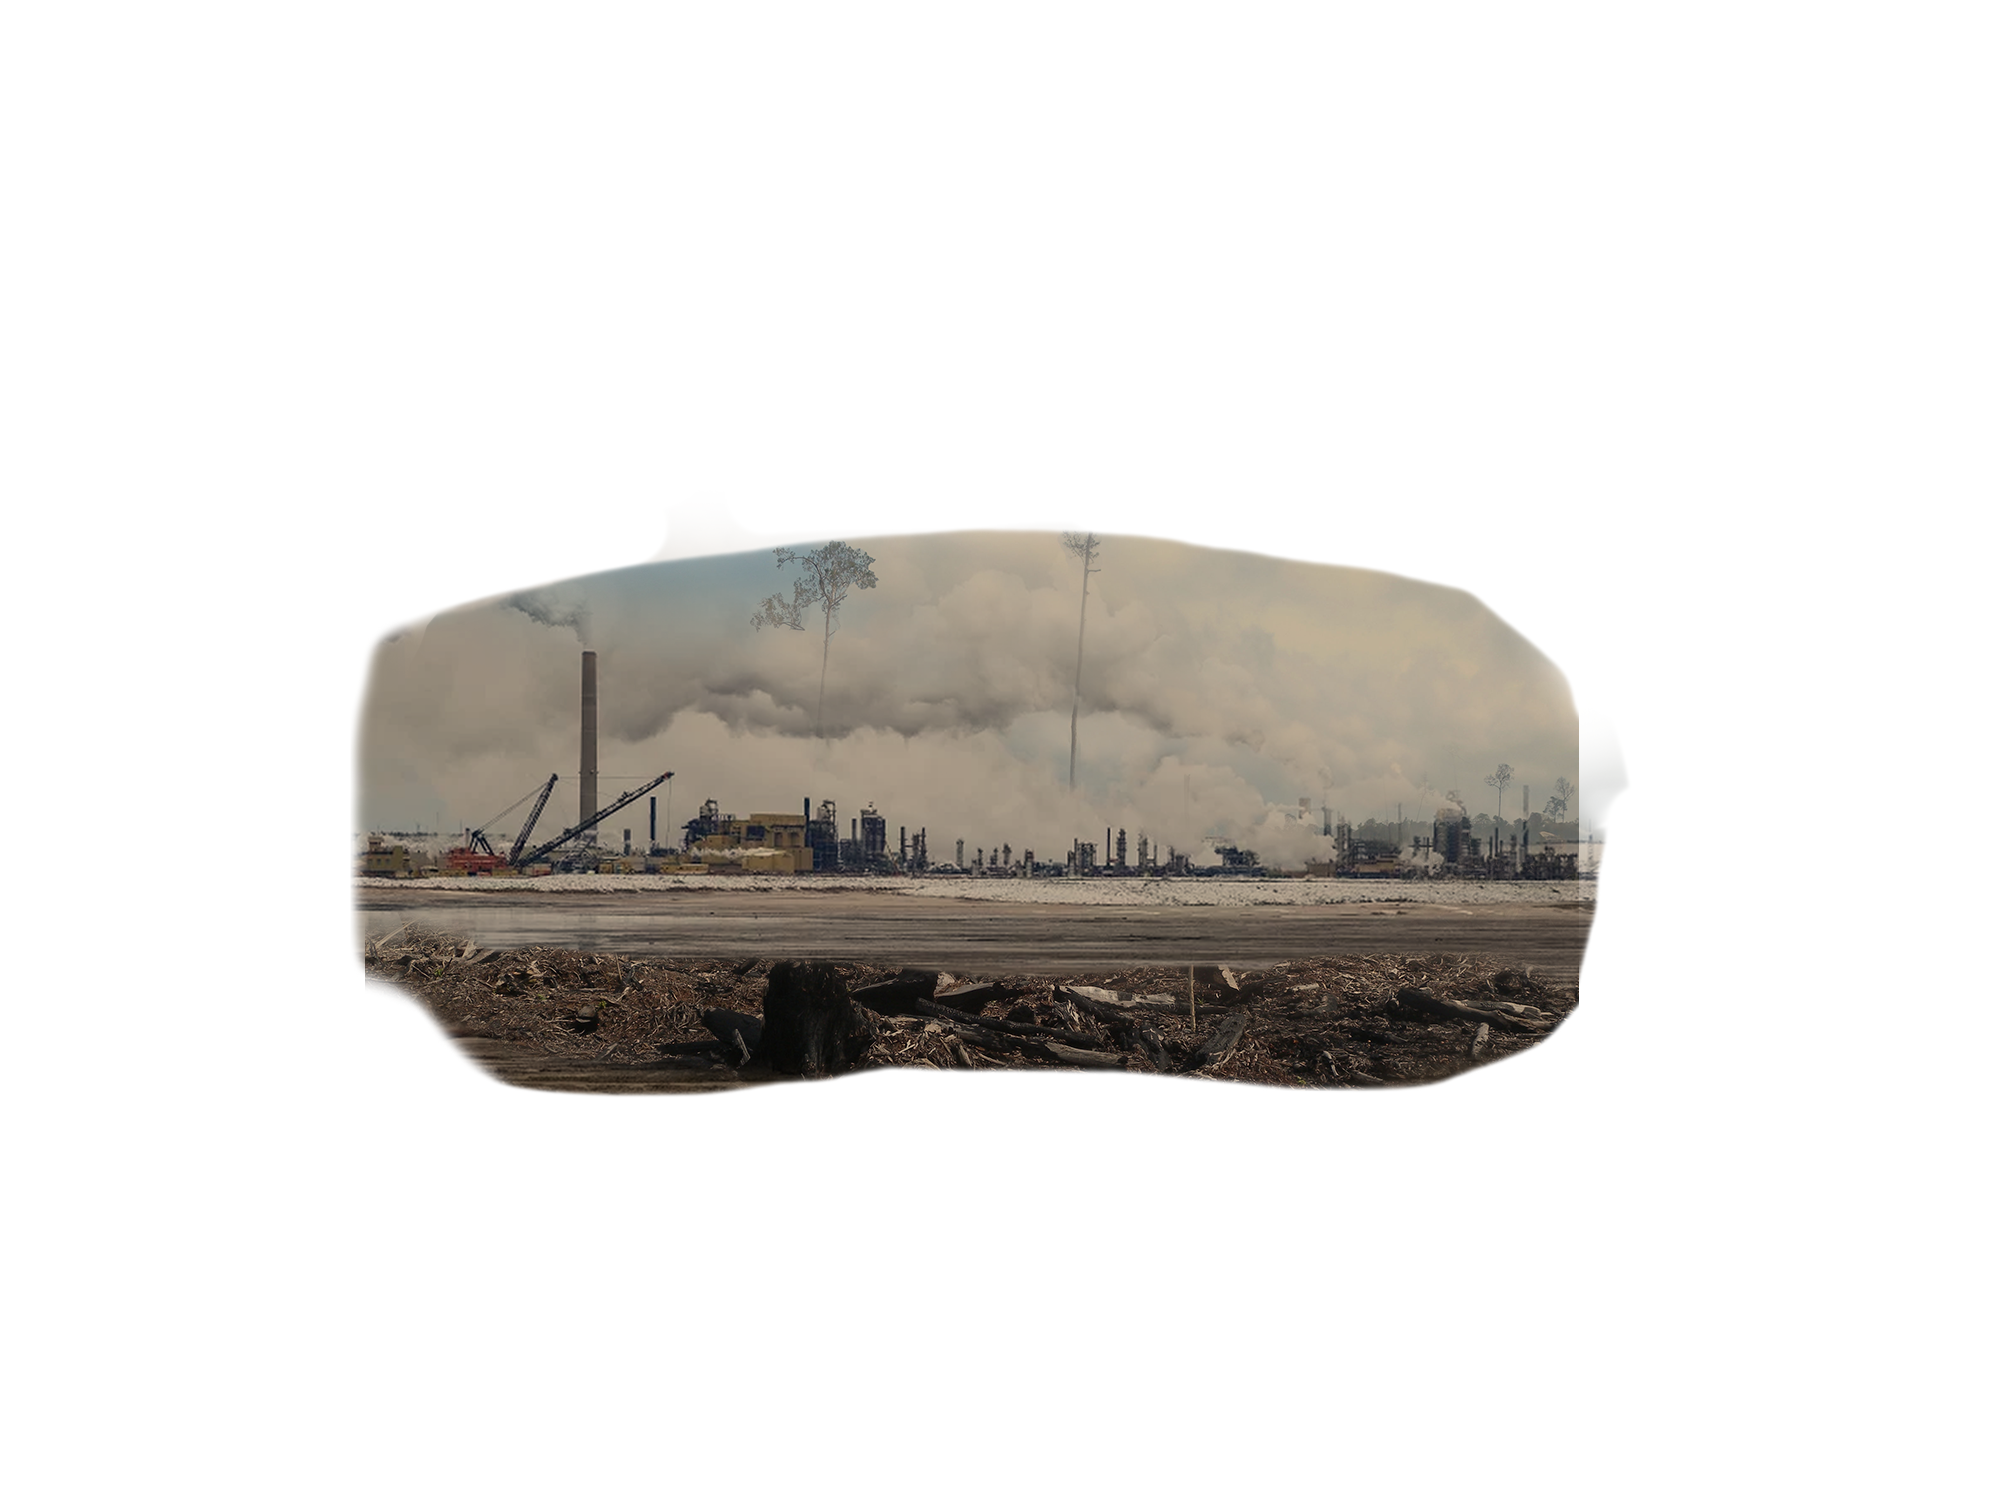
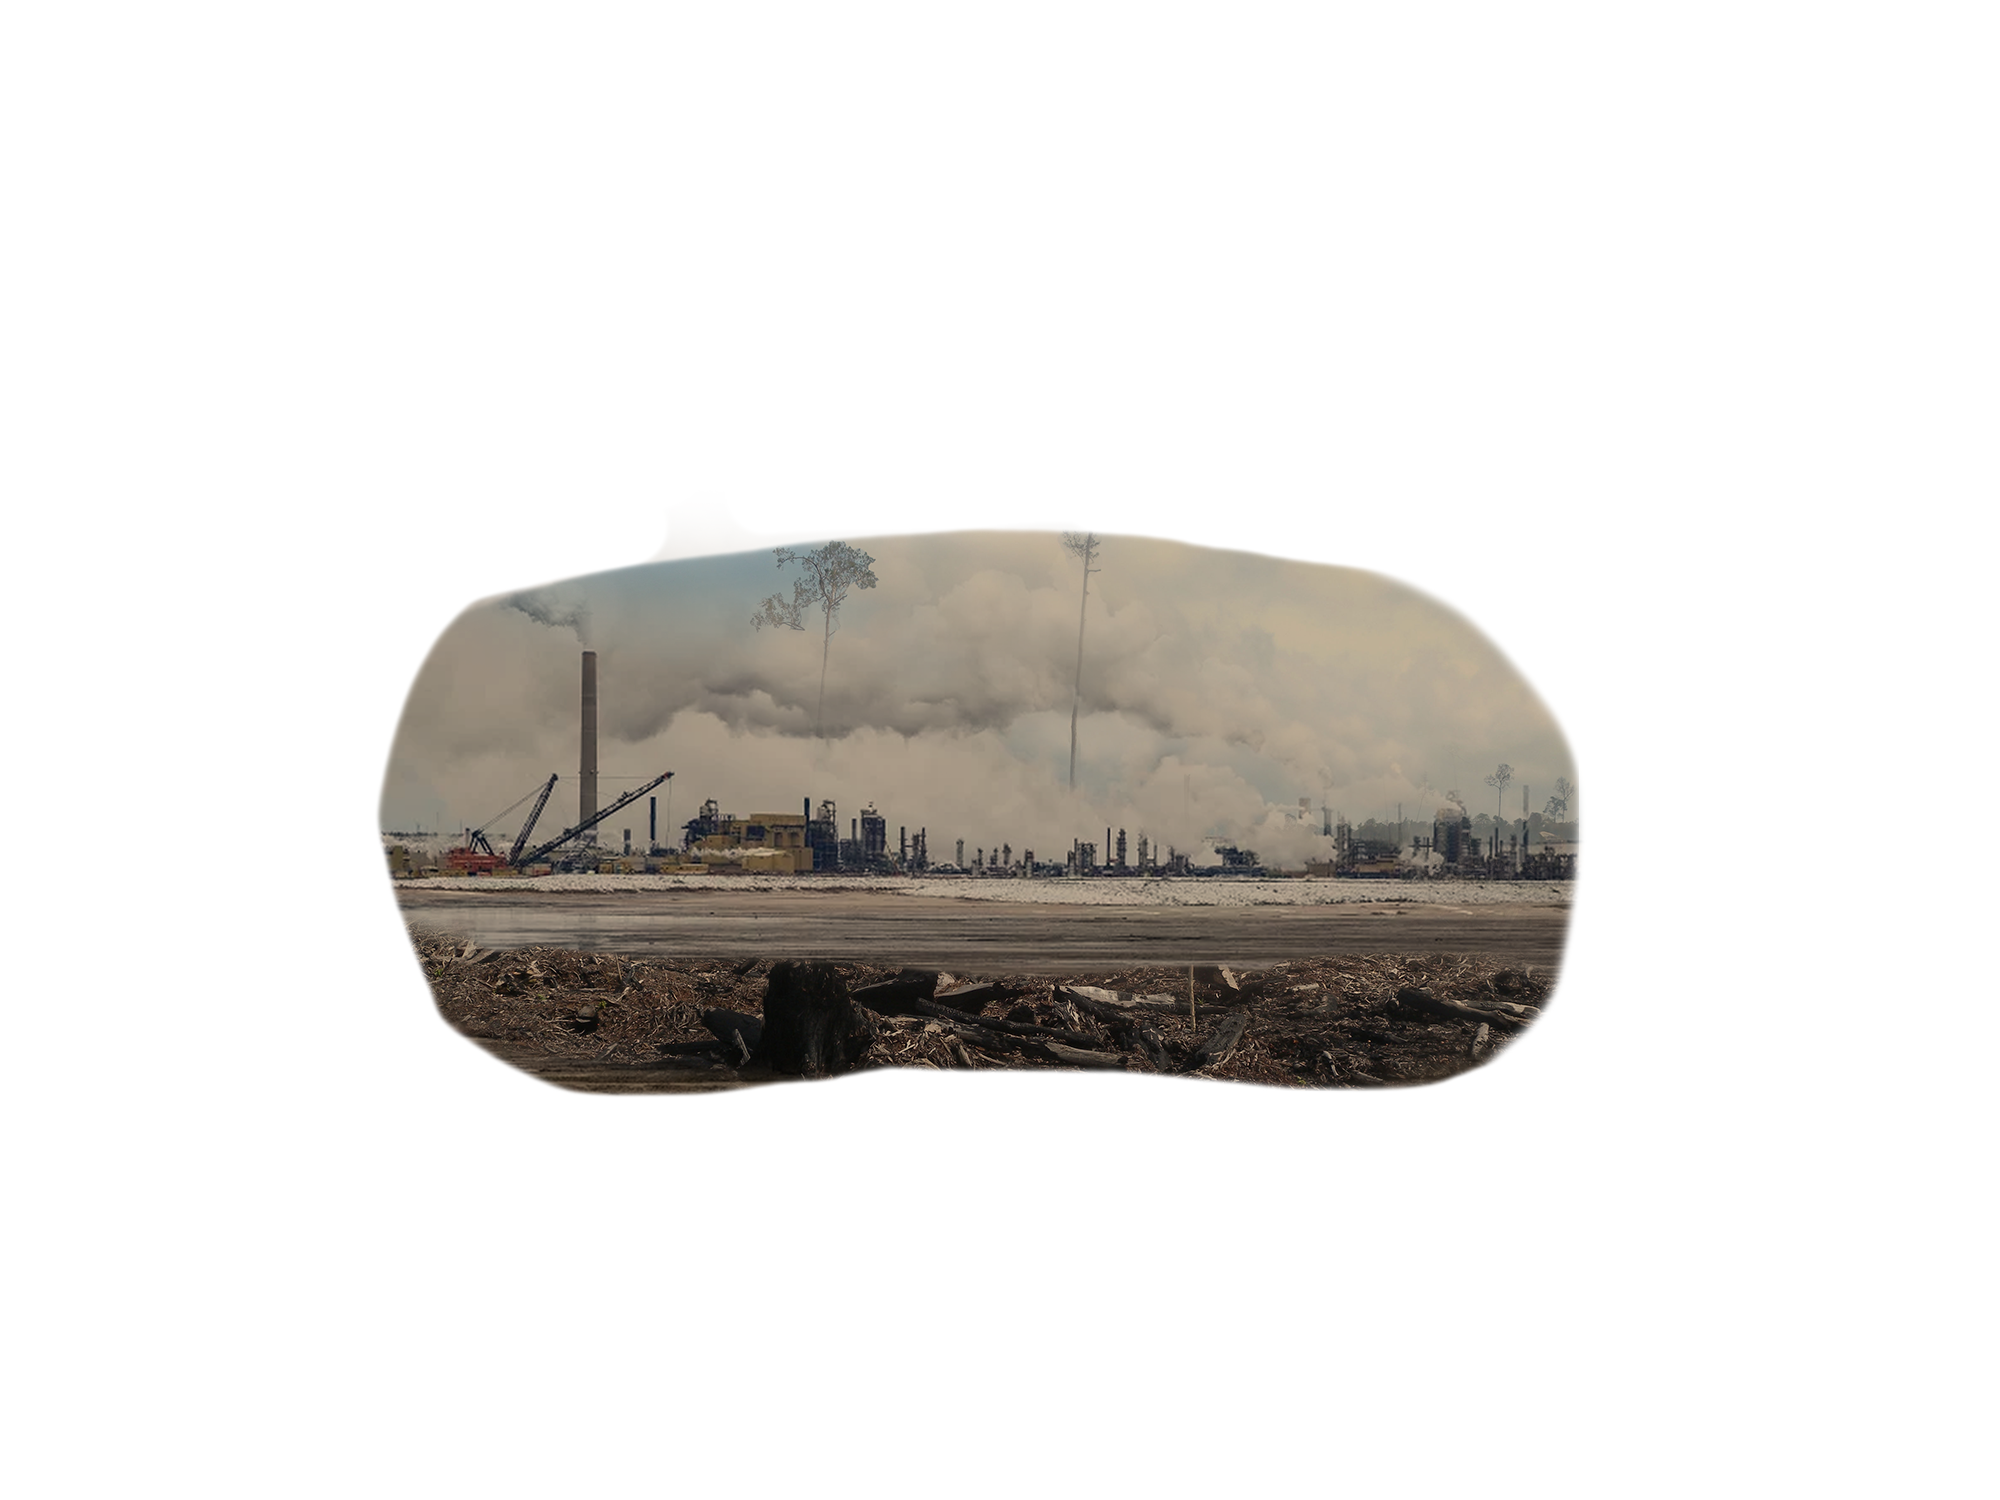
Added more fixes to dark matter.
added shadow image, fixed links.

Changed region(s): [[0.155, 0.3987, 0.248, 0.6747], [0.682, 0.368, 0.806, 0.7053], [0.217, 0.6747, 0.279, 0.736]]

diff --git a/darkmatter.html b/darkmatter.html
@@ -25,9 +25,10 @@
 			<div class="container1">
 				<a href="#info">
 					<ul id="scene" data-pointer-events="true">
-						<li class="expand-width" data-depth="0.25"><img src="images/dark/content.png"></li>
-						<li class="expand-width" data-depth="0.10"><img src="images/dark/goggles.png"></li>
-						<li class="expand-width" data-depth="0.25"><img src="images/dark/dark-title.png"></li>
+						<li class="expand-width" data-depth="0.18"><img src="images/dark/shadow.png"></li>
+						<li class="expand-width" data-depth="0.30"><img src="images/dark/content.png"></li>
+						<li class="expand-width" data-depth="0.15"><img src="images/dark/goggles.png"></li>
+						<li class="expand-width" data-depth="0.05"><img src="images/dark/dark-title.png"></li>
 					</ul></a>
 				</div>
 
@@ -53,7 +54,7 @@
 
 	<article id="projects">
 
-		<br><br><br><br><br><br><br><br>
+		<br><br><br><br><br><br>
 
 		<h1><a href="littleangel.html">Little Angel</h1></a>
 		<br>
@@ -85,7 +86,7 @@
 		<br><br><br><br>
 		<h2>Exposing the truth.</h2><br><br>
 		<p><strong>Dark Matter</strong> is a virtual window into environmentally devastated areas in Canada, showcasing areas that would be otherwise untraversed and unknown.<br>
-			<br><i> The <strong>goal</strong> for this project is to educate individuals on the realities of environmental destruction and the political, economic and social consequences of expanding tar sands extraction projects.</p></p>
+			<br><i> The <strong>goal</strong> for this project is to educate individuals on the realities of environmental destruction and the political, economic and social consequences of expanding tar sands extraction projects.</i></p></p>
 
 			<p> Visit the <strong><a href="https://hybrid.concordia.ca/m_cousin/dark-matter/">website</a></strong> for the video demo & more.</p>
 

diff --git a/frenemies-4.html b/frenemies-4.html
@@ -65,7 +65,7 @@
 		<p><strong>Frenemies</strong> is a 6-10 player social deception party game that mixes a digital web tool and physical cards.<br>
 		<!-- <p>For more rules, please visit the <strong><a href="https://hybrid.concordia.ca/m_mannar/frenemies/">game site</p> -->
 			<!-- <p>Each round, players will generate hilarious images and attempt to score points. Through voting phases and social deduction, the Haters will be revealed!</p> -->
-			<br><i> The <strong>goal</strong> for this project was to create a new method of playing social deception games using <strong><a href="https://hybrid.concordia.ca/m_mannar/frenemies/">digital & physical</a></strong></i></strong> assets.</p></p>
+			<br><i> The <strong>goal</strong> for this project was to revitalize standard methods of playing social deception games by developing <strong><a href="https://hybrid.concordia.ca/m_mannar/frenemies/">digital & physical</a></strong></i></strong> assets.</p></p>
 
 			<p>Game Design & Packaging Design.</p>
 			<br>
@@ -133,7 +133,7 @@
 			<br>
 			<h1><a href="frenemies.html">Frenemies</h1></a>
 			<br>
-			<h1><a href="index.html">Coming Soon</h1></a>
+			<h1><a href="darkmatter.html">Dark Mattern</h1></a>
 
 		</article>
 

diff --git a/index.html b/index.html
@@ -41,10 +41,14 @@
 
 			<!-- About -->
 			<article id="about">
-				<p>Hi, I'm a multidisciplinary graphic designer in Montreal, Quebec. My mission is to provide <strong> creative solutions </strong> for digital media, branding and front-end design.</p>
+				<h2>Matteo Mannarino - Multidisciplinary Designer</h2><h4> Montreal, Qc</h4>
+
+				<br><p>I'm exploring new methods of developing emerging new media. I'm constantly analyzing how people make connections with modern media.</p>
+
+				<p>My mission is to provide <strong> creative solutions </strong> for digital media, branding and front-end design.</p>
+
 				<p> / 4 month internship @ Valnet Montreal.<br> / Graphic & Digital Media Designer for 1.5 years.</p>
 
-				<br>
 				<ul class="icons">
 					<li><a href="https://linkedin.com/in/matteomannarino" class="icon brands fa-linkedin-in"><span class="label">LinkedIn</span></a></li>
 					<!-- <li><a href="#" class="icon brands fa-instagram"><span class="label">Instagram</span></a></li> -->

diff --git a/littleangel-3.html b/littleangel-3.html
@@ -59,9 +59,9 @@
 
 	<article id="info">
 		<p><strong>Little Angel</strong> is an international brand of children's entertainment and premium mobile application.<br>
-			<br><i> My artwork has brought the brand to life on mobile devices, <br><strong>Youtube</strong> & <strong>Amazon Prime Video.</i></strong></p></p>
+			<br><i> My artwork brought the brand to life on mobile devices, <br><strong>Youtube</strong> & <strong>Amazon Prime Video.</i></strong></p></p>
 
-			<p>Role: Front-end graphic design</p>
+			<p>Front-end Graphic Design.</p>
 			<br>
 			<p><strong><a href="frenemies.html">Next Project</a></strong></p>
 		</article>
